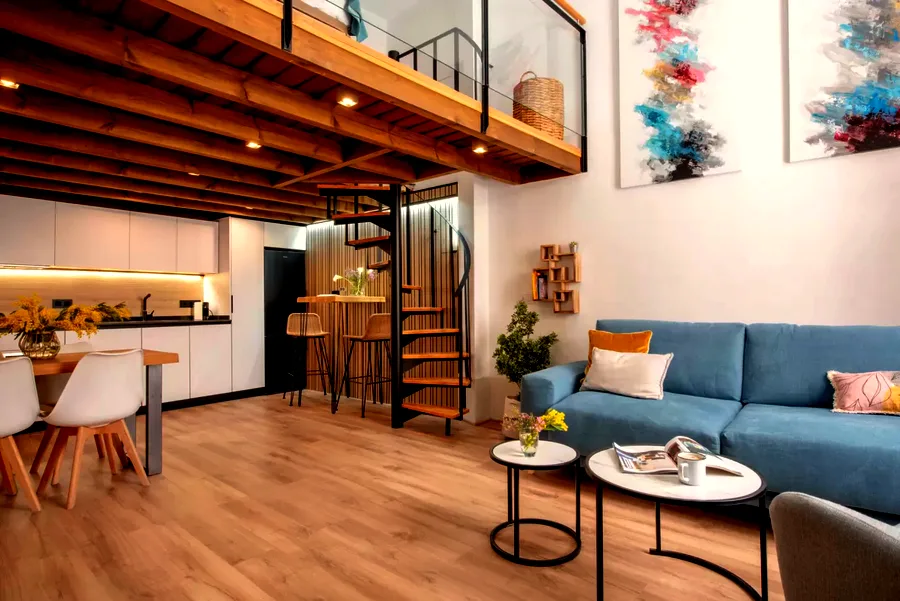
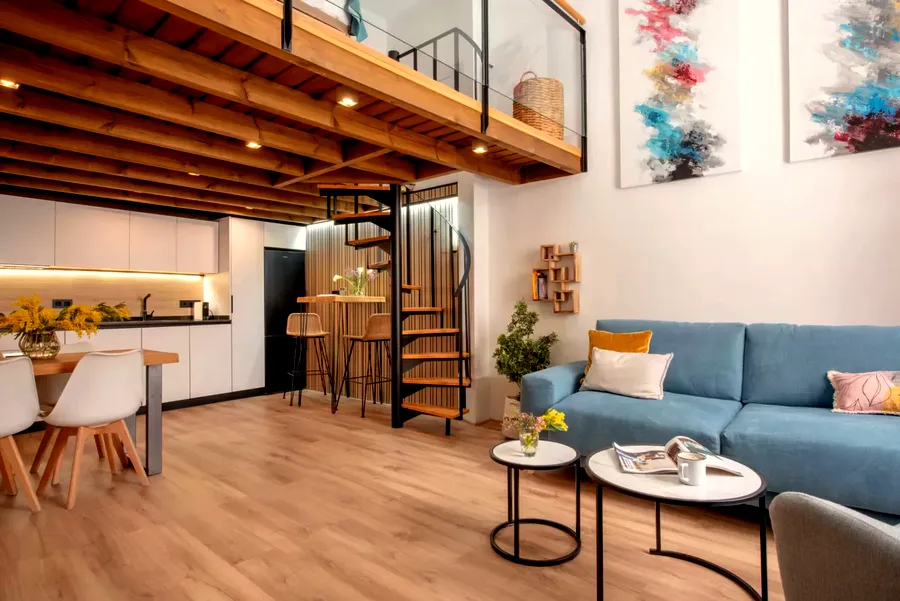
Menú: fotos más claras (degradado más suave y algo más de brillo)
Claude-Session: https://claude.ai/code/session_01CdjcqeT4LnNoNGkCpfGhgp

diff --git a/client/src/components/MainMenu.tsx b/client/src/components/MainMenu.tsx
@@ -207,17 +207,17 @@ export default function MainMenu({ options, onSelect, onBack, apartment, apartme
                 <img
                   src={getMenuPhoto(option.id, apartment) || apartmentBgUrl}
                   alt=""
-                  className="absolute inset-0 w-full h-full object-cover transition-transform duration-500 group-hover:scale-105"
+                  className="absolute inset-0 w-full h-full object-cover brightness-[1.12] saturate-[1.05] transition-transform duration-500 group-hover:scale-105"
                   style={{ objectPosition: MENU_PHOTO_POSITION[option.id] || 'center' }}
                 />
-                <div className="absolute inset-0 bg-gradient-to-b from-black/0 via-black/10 to-black/80" />
+                <div className="absolute inset-0 bg-gradient-to-b from-transparent from-50% to-black/70" />
                 <span className="absolute top-2.5 left-2.5 w-9 h-9 sm:w-11 sm:h-11 rounded-xl bg-white/95 text-primary shadow-md flex items-center justify-center [&_svg]:w-5 [&_svg]:h-5 sm:[&_svg]:w-6 sm:[&_svg]:h-6 [&_svg]:stroke-[2.25]">
                   {option.icon}
                 </span>
                 <span className="absolute left-3 right-3 bottom-2.5 sm:left-4 sm:bottom-4 text-white">
-                  <span className="block font-bold text-[15px] sm:text-xl leading-tight drop-shadow break-words hyphens-auto">{option.title}</span>
+                  <span className="block font-bold text-[15px] sm:text-xl leading-tight [text-shadow:0_1px_4px_rgba(0,0,0,0.6)] break-words hyphens-auto">{option.title}</span>
                   {option.description && (
-                    <span className="block text-[11px] sm:text-sm leading-snug opacity-90 mt-0.5 line-clamp-1 sm:line-clamp-2">{option.description}</span>
+                    <span className="block text-[11px] sm:text-sm leading-snug opacity-95 mt-0.5 line-clamp-1 sm:line-clamp-2 [text-shadow:0_1px_3px_rgba(0,0,0,0.6)]">{option.description}</span>
                   )}
                 </span>
               </button>
